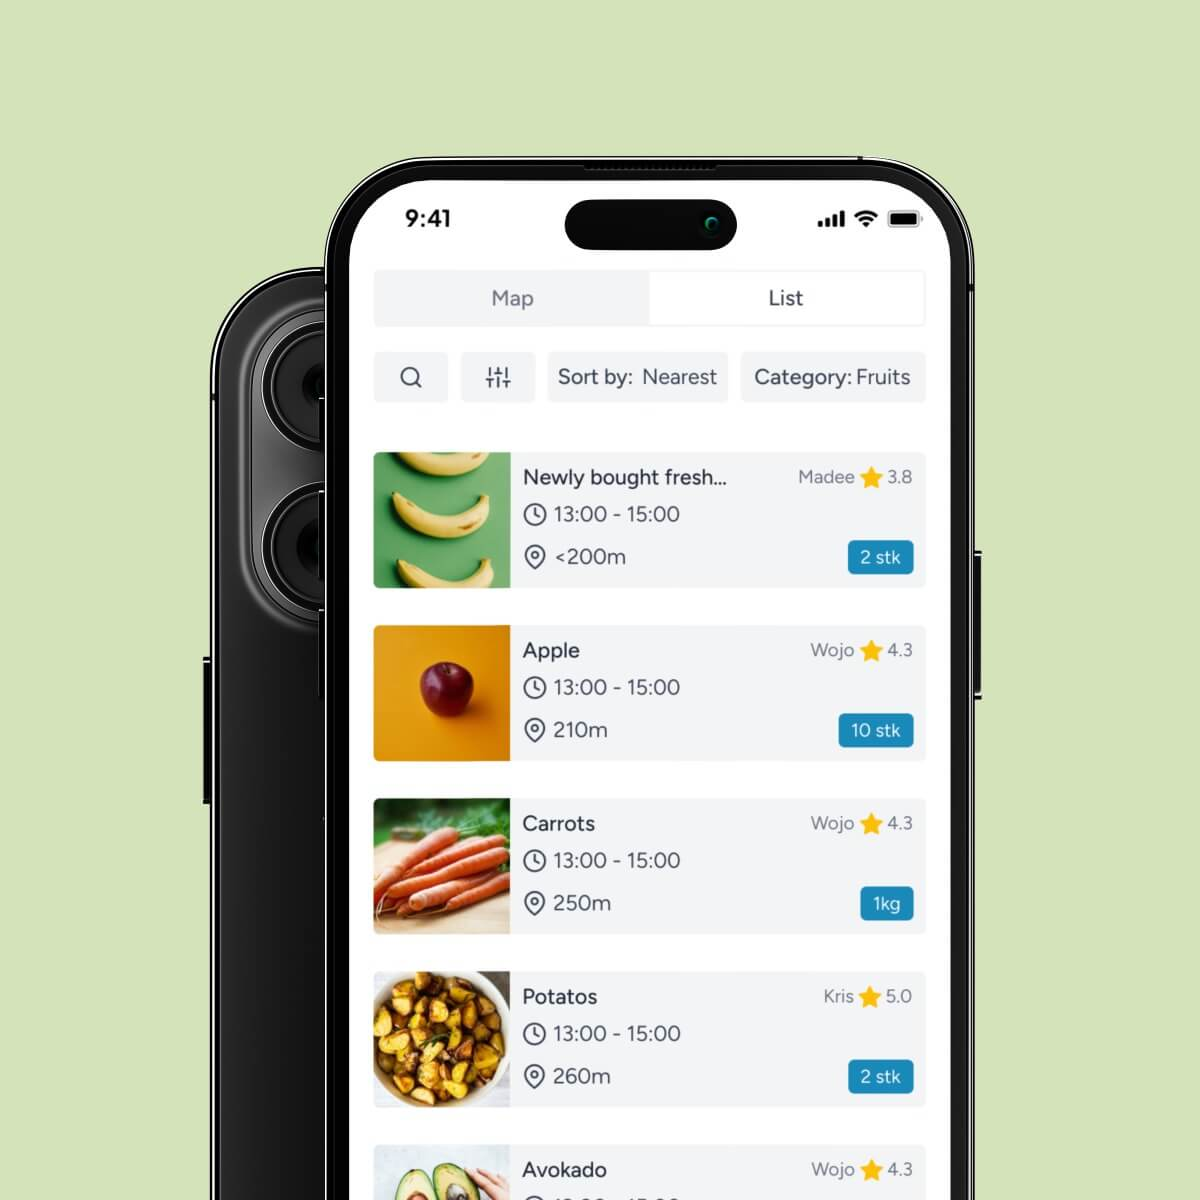
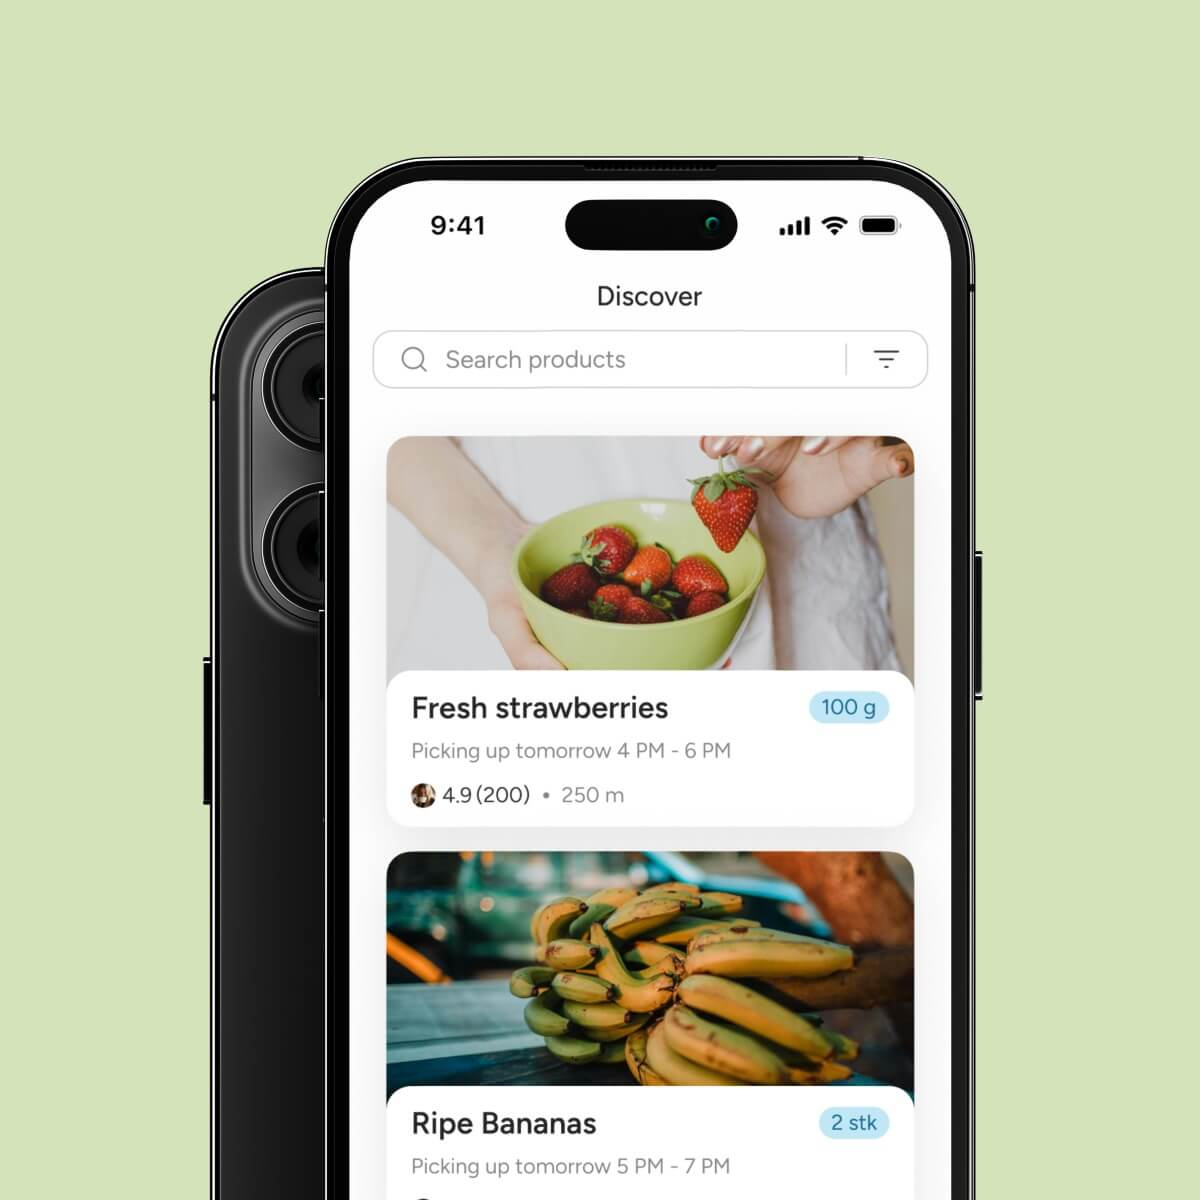
added new RS project content

diff --git a/src/content/work/rawshare.md b/src/content/work/rawshare.md
@@ -30,6 +30,14 @@ linkSource: "Figma"
 exploreFigmaLinks: 
 - url: "https://www.figma.com/file/X95CXJZU7cnLTiMDnbNAcy/Mockups?type=design&node-id=1981%3A21405&mode=design&t=10ezg6XTqPIexWP2-1"
   type: "Mockups"
+
+exploreFigmaLinks: 
+- url: "https://www.figma.com/design/7AaigZpBYBNSrOLAzGG18O/RS-2.0-Mockups?node-id=0-1&t=Fi22yeA6KKv6GnjD-1"
+  type: "Mockups"
+- url: "https://www.figma.com/design/bJDclReMa35kQShcAiRAhs/RS-2.0-Components?node-id=545-180&t=hiqb3EFGUnYTRTGx-1"
+  type: "Component library"
+- url: "https://www.figma.com/design/VzfUx8eRkV0gBzne5v9Fxh/RS-2.0-Foundation?node-id=0-1&t=jgAKD9zcNFDThCpA-1"
+  type: "Foundation"
 exploreText: Explore the RawShare app
 
 githubRepoLink: https://github.com/Wojo3214/foodwaste-app
@@ -124,13 +132,13 @@ The app has been divided into four main sections:
             
 ## RawShare 2.0
 
-Since the project hand-in, the app’s design and the entire design system have been updated. The app now provides users with an even better experience through a sleek and modern interface, improved navigation, and new features.
+Since the project hand-in, the app’s design and the entire design system have been updated. The app now provides users with an even better experience through a sleek and modern interface, improved navigation, new features, and enhanced accessibility. Key improvements include better color contrast, larger touch targets, and labeled navigation elements, making the app more user-friendly for everyone, including those with disabilities.
 
 ![Example of mockups that represents RawShare v.2](/portfolio/assets/rawshare/rs-mockups-2.jpg)
 
 ## Design system 2.0
 
-The RawShare design system has been rebuilt from scratch once again. The biggest change is the way in which all foundation information is displayed. Currently, the information is shown and structured in a user-friendly manner for both designers and developers.
+The RawShare design system has been rebuilt from scratch once again. The biggest change is that the entire foundation is now based on Figma variables such as colors, spacing, typography, and styles like shadows and effects. This update streamlines the design process, ensuring consistency and making collaboration between designers and developers more efficient.
 
 ![Example of new Design System that presents a Foundation section](/portfolio/assets/rawshare/rs-ds-2-foundation.jpg)
 
@@ -144,21 +152,32 @@ The RawShare design system has been rebuilt from scratch once again. The biggest
 
 This section presents the transformations we have implemented to enhance the app's flow and design. These updates underscore our commitment to user-friendly design and seamless functionality. As you explore the following sections, you will see steps that we have taken to exceed user expectations based on the gathered feedback.
 
-![RawShare app before and after redesigning - Start page](/portfolio/assets/rawshare/rs-start-page-comparison.jpg)
+![RawShare app before and after redesigning - Start page](/portfolio/assets/rawshare/rs-start-page-comparison-2.jpg)
 
-**Start Page**: Rebranded for a cleaner, more minimalistic look.
+**Start Page**: 
 
-![RawShare app before and after redesigning - Home page](/portfolio/assets/rawshare/rs-home-page-comparison.jpg)
+- Rebranded for a cleaner, more minimalistic look.
+- Added social media sign-in options for smoother, more convenient login experience.
 
-**Home Page**: Cosmetic adjustments and new badges for product availability.
+![RawShare app before and after redesigning - Home page](/portfolio/assets/rawshare/rs-home-page-comparison-2.jpg)
 
-![RawShare app before and after redesigning - Product item page](/portfolio/assets/rawshare/rs-product-item-comparison.jpg)
+**Home Page**:
+- Revamped flow with combined list and map views for a smoother experience and easier navigation
+- Switch between views by dragging the list up or down.
+- Navigation labels added for better accessibility.
 
-**Product Item Page**: Emphasized seller information and fixed ‘Book item’ button.
+![RawShare app before and after redesigning - Product item page](/portfolio/assets/rawshare/rs-product-item-comparison-2.jpg)
 
-![RawShare app before and after redesigning - Orders page](/portfolio/assets/rawshare/rs-booked-comparison.jpg)
+**Product Page**:
+- Emphasized seller information for better recognition, helping users decide if the seller is trustworthy enough to get food from them.
+- Highlighted seller’s pickup preferences, making it easier for users to adjust and coordinate when picking up food.
+- Fixed "Add to basket" button to the navigation for easier access.
 
-**Orders Page**: Redesigned for clarity, categorized orders, and a modal for additional details.
+![RawShare app before and after redesigning - Orders page](/portfolio/assets/rawshare/rs-booked-comparison-2.jpg)
+
+**Orders Page**: 
+- Orders categorized by colors for easier recognition of their status (e.g., pending, accepted, or rejected).
+- Status track preview added for a quick look at the current step in the order process.
 
 Of course, the presented images may not show every detail, flow, and aspect of the app. That's why I invite you to visit our <a href="https://www.figma.com/file/BocF8eNzCFYOvj8lMDFt0I/Mockups?node-id=2003%3A14726&t=oQjitJCWdZyhCI4Y-1" class="prototyp" target="_blank">Figma file</a> and check out the entire project there.
 
